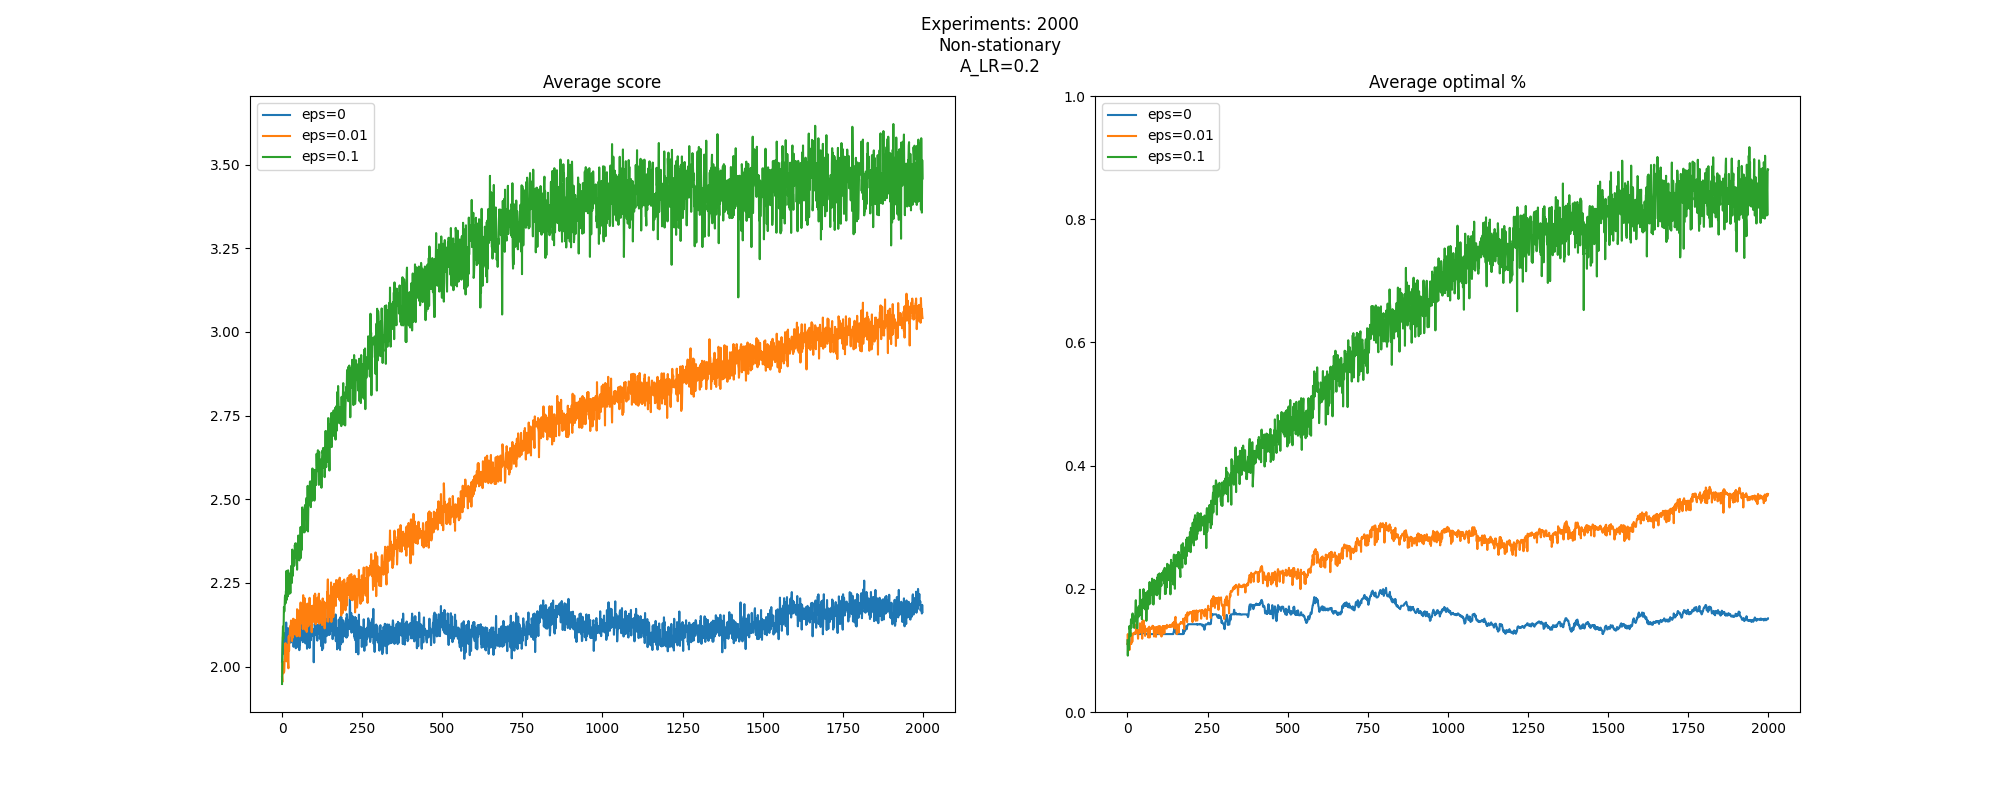
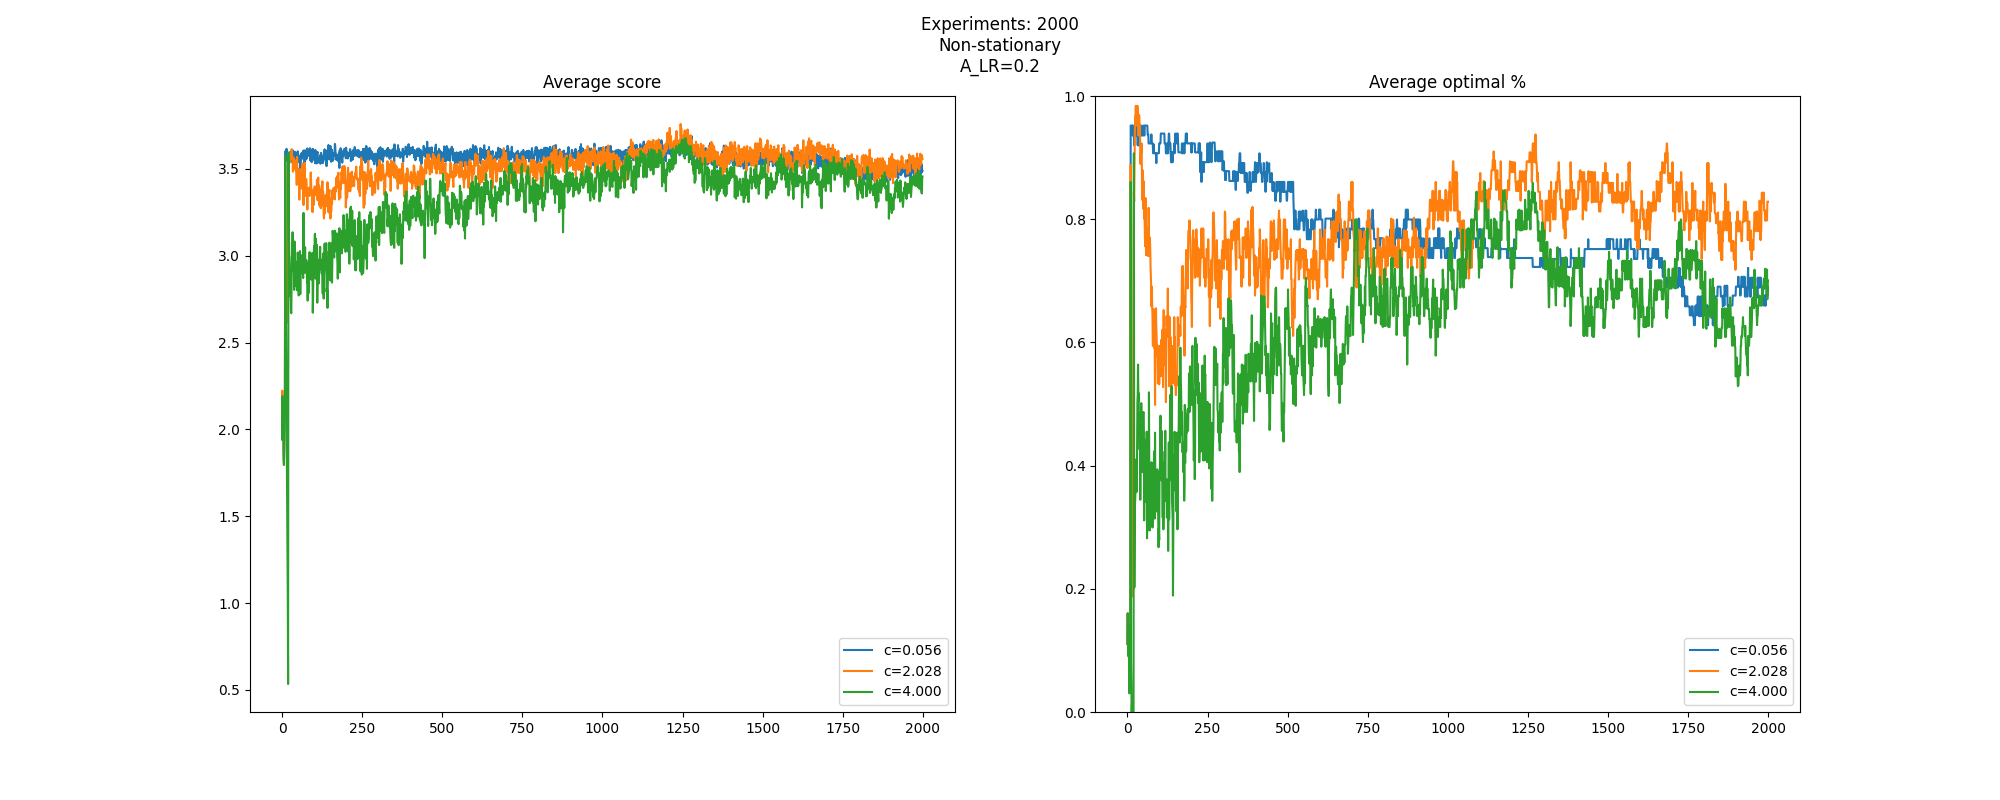
work on gradient agent

diff --git a/Bandits/agents.py b/Bandits/agents.py
@@ -113,7 +113,7 @@ class UCBAgent(AgentBase):
 
         self.UCBc = c
 
-        self.__init_lr(lr)
+        self._init_lr(lr)
 
     def _UCB(self, action):
         return self.qs[action] + self.UCBc * sqrt(log(self.curr_step) / self.ns[action])
@@ -143,5 +143,73 @@ class UCBAgent(AgentBase):
         self.curr_step += 1
         self.ns[action] += 1
         self.qs[action] += self.lr(self.ns[action]) * (reward - self.qs[action])
+
+class GradientAgent(AgentBase):
+    '''
+    Agent that keeps a Q function, which it updates with
+        Q_{n+1} = Q_n + lr(n)(R_n - Q_n)
+
+    The user controls the learning rate lr(n)
+
+    This agent uses the UCB selection method
+    '''
+    def __init__(self, 
+            num_bandits: int, 
+            lr: Union[float, Callable[[int], float]] =None,
+        ):
+        '''
+        Constructor.
+
+        The learning rate is either a callable that receives n as input, or
+        simply a floating point number for a constant learning rate.
+
+        c is the hyperparameter for the UCB function
+        '''
+
+        super().__init__()
+
+        self.avgreward = 0
+        self.curr_step = 0
+
+        self.num_bandits = num_bandits
+        self.Hs = np.zeros(num_bandits)
+        self._compute_policy()
+
+        self._init_lr(lr)
+
+    def _compute_policy(self):
+        exps = np.exp(self.Hs) 
+        self.policy = exps / exps.sum()
+
+    def get_action(self):
+        """
+        There is only one state, so just get an action
+        """ 
+        return np.random.choice(range(self.num_bandits), 1, p=self.policy)[0]
+
+
+    def update(self, reward, action):
+        """
+        The agent needs to learn, so this must be called every move
+        """
+        self.curr_step += 1
+
+        # Update the avg reward (baseline)
+        n = self.curr_step
+        self.avgreward = (n / (n + 1)) * self.avgreward + (1 / (n + 1))* reward
+
+        # perform updates
+        step_mult = self.lr(n) * (reward - self.avgreward)
+        for i in range(self.num_bandits):
+            if i == action:
+                self.Hs[i]+= step_mult * (1 - self.policy[i])
+            else:
+                self.Hs[i] -= step_mult * self.policy[i]
+
+
+
+
+
+
 
 

diff --git a/Bandits/gradient_agent.py b/Bandits/gradient_agent.py
@@ -3,7 +3,7 @@ import matplotlib.pyplot as plt
 import multiprocessing
 from multiprocessing import Pool
 from utils import CompleteTaskCounter
-from agents import UCBAgent
+from agents import GradientAgent
 from bandit import Bandits
 
 NUM_THREADS = multiprocessing.cpu_count()
@@ -15,9 +15,7 @@ E_NUM_EXPERIMENTS = 2000
 
 # Agent specification
 # Lr can be a lambda of n, None for avg, or constant
-A_LR = 0.2
-A_INITIAL_Q = 0
-A_UCB_CS = np.linspace(1/18, 4, E_NUM_AGENTS)
+A_LR = np.linspace(0, 0.1, E_NUM_AGENTS)
 
 # Bandit specification
 B_NUM_BANDITS = 10
@@ -44,13 +42,11 @@ def experiment():
     )
 
     agents = list(map(
-        lambda c: UCBAgent(
+        lambda lr: GradientAgent(
             B_NUM_BANDITS, 
-            A_INITIAL_Q ,
-            c,
-            A_LR
-        ), 
-        A_UCB_CS
+            lr
+        ),
+        A_LR
     ))
 
     scores = np.zeros((E_NUM_AGENTS, E_NUM_ACTIONS))
@@ -84,26 +80,24 @@ def plot_rewards_and_percentage(scores, optimal):
 
     fig, ax = plt.subplots(1, 2, figsize=(20, 8))
     for i in range(E_NUM_AGENTS):
-        c = A_UCB_CS[i]
-        ax[0].plot(score_means[i,:], label=f"{c=:.3f}")
-        ax[1].plot(optimal_perc[i,:], label=f"{c=:.3f}")
+        lr = A_LR[i]
+        ax[0].plot(score_means[i,:], label=f"{lr=:.3f}")
+        ax[1].plot(optimal_perc[i,:], label=f"{lr=:.3f}")
     ax[1].set_ylim(0, 1)
     ax[0].set_title("Average score")
     ax[1].set_title("Average optimal %")
     ax[0].legend();ax[1].legend()
-    title = f"Experiments: {E_NUM_EXPERIMENTS}: UCB Agent"
+    title = f"Experiments: {E_NUM_EXPERIMENTS}: Gradient Agent"
     if B_NON_STATIONARY:
         title += "\nNon-stationary"
 
     if A_LR is not None:
         title += f"\n{A_LR=}"
-    else:
-        title += "\nAverage Q"
 
     fig.suptitle(title)
 
     plt.savefig(
-        f"./figures/UCBAGENT_exmnts{E_NUM_EXPERIMENTS}_lr{A_LR}_{'nonstat' if B_NON_STATIONARY else 'stat'}_agnts{E_NUM_AGENTS}_actions{E_NUM_ACTIONS}_initq{A_INITIAL_Q}.png"
+        f"./figures/GRADIENT_exmnts{E_NUM_EXPERIMENTS}_{'nonstat' if B_NON_STATIONARY else 'stat'}_agnts{E_NUM_AGENTS}_actions{E_NUM_ACTIONS}.png"
     )
     plt.show()
 

diff --git a/Bandits/testing.py b/Bandits/testing.py
@@ -1,0 +1,14 @@
+
+
+# Cell
+import numpy as np
+
+a = np.array([1, 2, 3])
+
+exps = np.exp(a) 
+softmax = exps / exps.sum()
+
+print(softmax)
+
+np.random.choice(range(len(a)) ,size=1, p=softmax)[0]
+
